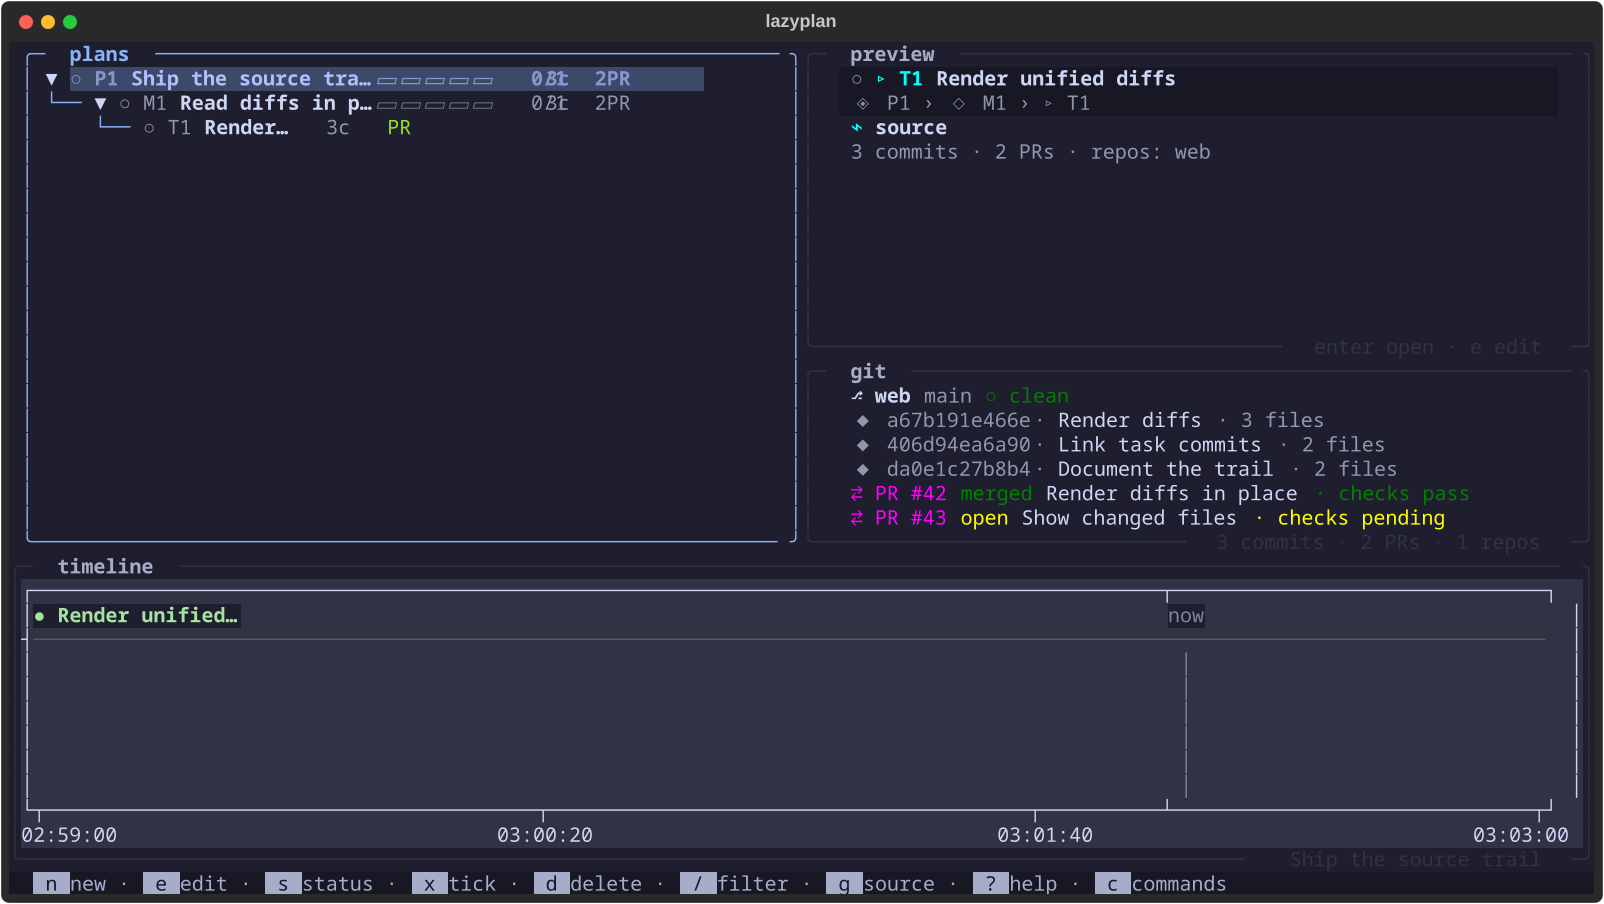
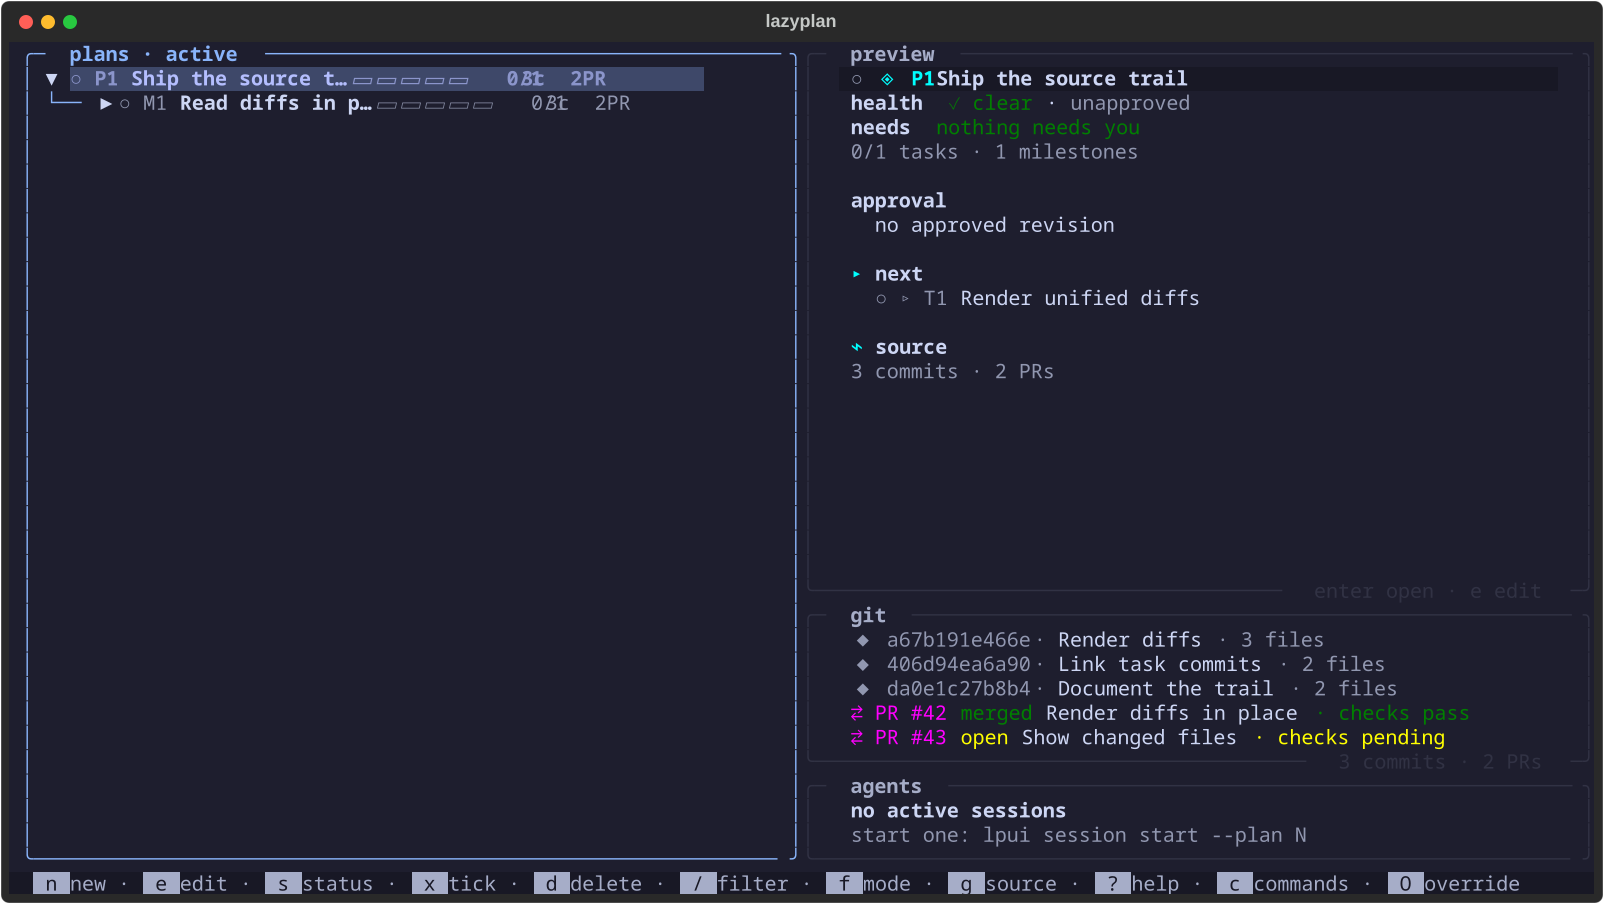
docs: describe the timeline toggle and refresh captures

diff --git a/site/index.html b/site/index.html
@@ -383,7 +383,7 @@ Task · Add the token model        done</pre>
       <a class="zoom-trigger" href="./screens/lpui-theme-void.png" data-zoom aria-haspopup="dialog">
         <picture>
           <source srcset="./screens/lpui-theme-void.webp" type="image/webp">
-          <img src="./screens/lpui-theme-void.png" width="1604" height="904" loading="lazy" decoding="async" alt="lazyplan main shell in the OLED-black void theme, with the plan tree, sticky preview, GIT pane, and timeline." class="block h-auto w-full rounded-xl border border-plan-border">
+          <img src="./screens/lpui-theme-void.png" width="1604" height="904" loading="lazy" decoding="async" alt="lazyplan main shell in the OLED-black void theme, with the plan tree, sticky preview, and GIT pane." class="block h-auto w-full rounded-xl border border-plan-border">
         </picture>
       </a>
       <figcaption class="mt-2 text-sm text-zinc-400"><code class="inline-code">void</code></figcaption>
@@ -392,7 +392,7 @@ Task · Add the token model        done</pre>
       <a class="zoom-trigger" href="./screens/lpui-theme-latte.png" data-zoom aria-haspopup="dialog">
         <picture>
           <source srcset="./screens/lpui-theme-latte.webp" type="image/webp">
-          <img src="./screens/lpui-theme-latte.png" width="1604" height="904" loading="lazy" decoding="async" alt="lazyplan main shell in the light Latte theme, with the plan tree, sticky preview, GIT pane, and timeline." class="block h-auto w-full rounded-xl border border-plan-border">
+          <img src="./screens/lpui-theme-latte.png" width="1604" height="904" loading="lazy" decoding="async" alt="lazyplan main shell in the light Latte theme, with the plan tree, sticky preview, and GIT pane." class="block h-auto w-full rounded-xl border border-plan-border">
         </picture>
       </a>
       <figcaption class="mt-2 text-sm text-zinc-400"><code class="inline-code">latte</code></figcaption>

diff --git a/tools/capture-screens.py b/tools/capture-screens.py
@@ -453,10 +453,11 @@ async def capture_theme_latte(store: Store, target: Path) -> None:
 
 
 async def capture_timeline(store: Store, target: Path) -> None:
-    """Capture the shell with a milestone selected so only its task lanes show."""
+    """Capture the shell with the timeline open and a milestone selected."""
     app = create_app(str(store.path))
     async with app.run_test(size=SIZE) as pilot:
         await pilot.pause()
+        app.action_toggle_timeline()
         tree = app.query_one("#tree", Tree)
         _expand_all(tree)
         tree.focus()
@@ -727,13 +728,13 @@ SCENES: dict[str, Scene] = {
         SIZE,
         build_source_fixture,
         capture_theme_void,
-        "lazyplan main shell in the OLED-black void theme, with the plan tree, sticky preview, GIT pane, and timeline.",
+        "lazyplan main shell in the OLED-black void theme, with the plan tree, sticky preview, and GIT pane.",
     ),
     "lpui-theme-latte": Scene(
         SIZE,
         build_source_fixture,
         capture_theme_latte,
-        "lazyplan main shell in the light Latte theme, with the plan tree, sticky preview, GIT pane, and timeline.",
+        "lazyplan main shell in the light Latte theme, with the plan tree, sticky preview, and GIT pane.",
     ),
     "lpui-timeline": Scene(
         SIZE,

diff --git a/CHANGELOG.md b/CHANGELOG.md
@@ -29,6 +29,9 @@ once instead of landing unnoticed.
 
 ### Changed
 
+- **Timeline on demand.** The timeline card starts hidden so the tree and
+  preview get the full shell. Press `T` or run the palette's show/hide timeline
+  command to open it for the session; below 100 columns it stays hidden.
 - **One access-path registry.** Palette IDs, CLI paths, and MCP tools now map
   from one canonical action table, with a parity gate that rejects an
   undocumented gap. The reachability report proves the three-step budget.
